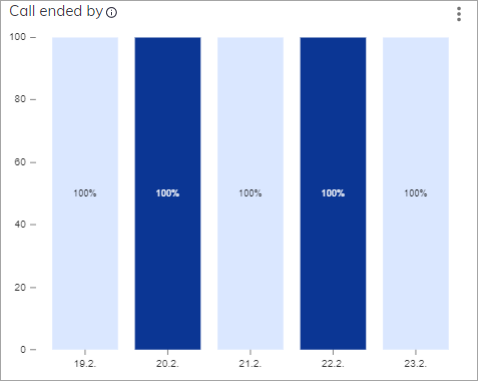
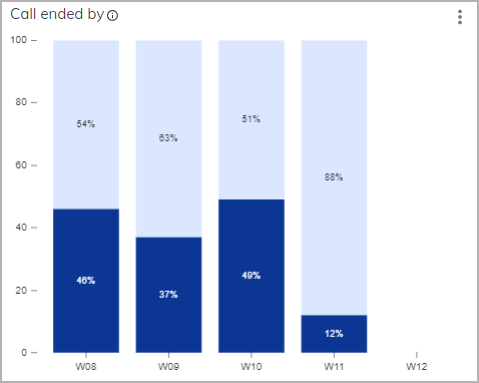
updated the call ended by chart

diff --git a/docs/en/docs/insights/dashboard-calls.md b/docs/en/docs/insights/dashboard-calls.md
@@ -58,11 +58,13 @@ Source table:
 ```txt
 |   Date    |   Actor    | Number of calls |
 | --------  | ---------- | --------------- |
-| 2/19/2023 |    user    |      5          |
-| 2/20/2023 |    agent   |      5          |
-| 2/21/2023 |    user    |      5          |
-| 2/22/2023 |    agent   |      2          |
-| 2/23/2023 |    user    |      4          |
+| 2023-W08  |    user    |      13         |
+| 2023-W08  |    agent   |      46         |
+| 2023-W09  |    user    |      78         |
+| 2023-W10  |    user    |      22         |
+| 2023-W10  |    agent   |      21         |
+| 2023-W11  |    user    |      15         |
+| 2023-W11  |    agent   |      2          |
 ```
 
 Result:
